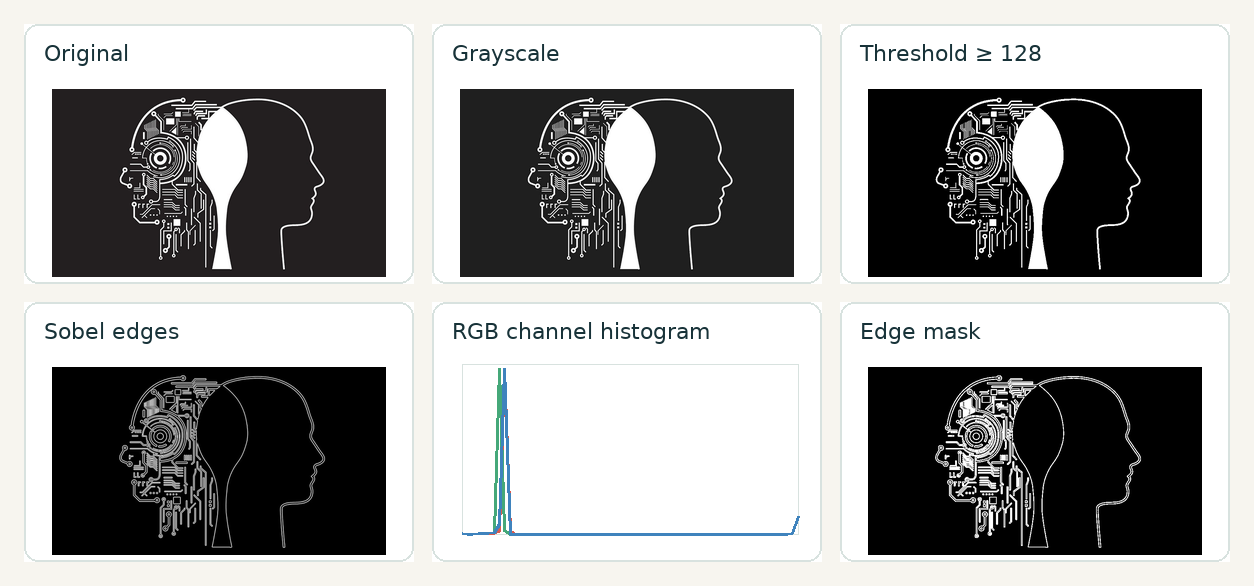
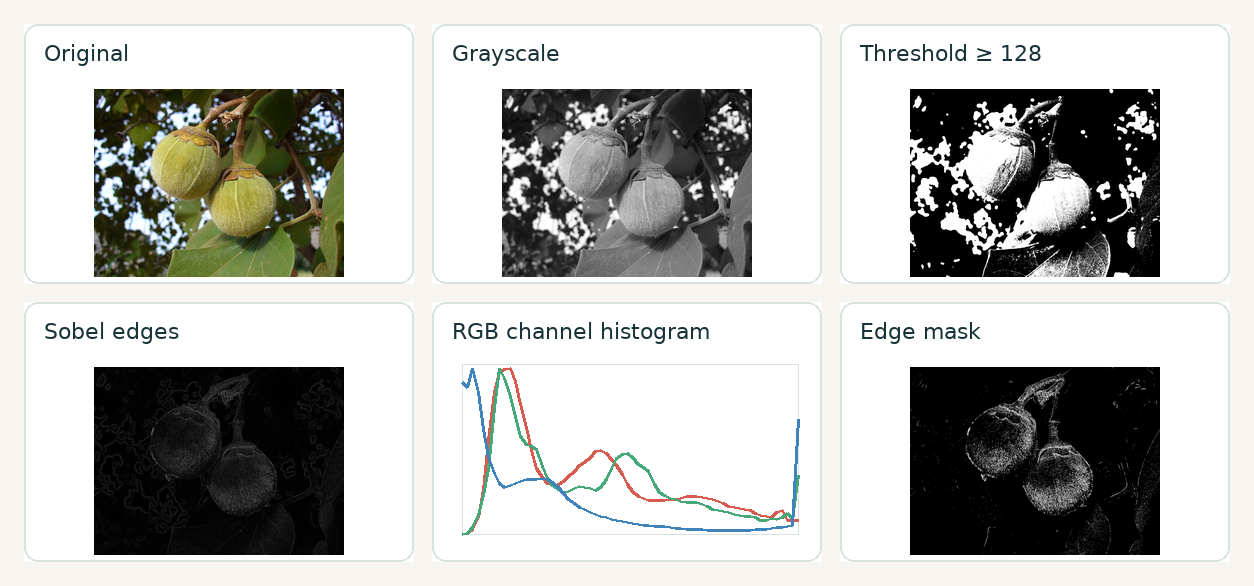
Add filtered inflation graph prediction

diff --git a/experiments/graph_image_predictor.py b/experiments/graph_image_predictor.py
@@ -1,0 +1,217 @@
+"""Extract and extrapolate an inflation curve from a graph image.
+
+This experiment is intentionally explicit about its assumptions. It detects
+the orange line in the checked-in KNN plot, smooths the pixel trace, converts
+pixels back to the plot's y-axis range, and fits a small linear extrapolation
+over the last few points. It demonstrates image-based graph digitization; it
+is not a replacement for forecasting from the original numeric dataset.
+"""
+
+from __future__ import annotations
+
+import argparse
+from pathlib import Path
+from typing import Any
+
+import numpy as np
+from PIL import Image, ImageDraw
+
+from .computer_vision import _fit, _font, _panel
+
+
+# Calibration for static/images/knnPlot1.png. The values correspond to the
+# visible plot rectangle and its y-axis labels (0.25 through 0.60).
+DEFAULT_CALIBRATION = {
+    "x_start": 66,
+    "x_end": 369,
+    "y_top": 16,
+    "y_bottom": 224,
+    "y_min": 0.25,
+    "y_max": 0.60,
+    "sample_count": 22,
+}
+
+
+def color_mask(image: Image.Image, target: tuple[int, int, int], tolerance: float) -> np.ndarray:
+    """Return pixels close to an RGB line color as a boolean mask."""
+
+    pixels = np.asarray(image.convert("RGB"), dtype=np.float32)
+    distance = np.linalg.norm(pixels - np.asarray(target, dtype=np.float32), axis=2)
+    return distance <= tolerance
+
+
+def extract_trace(
+    image: Image.Image,
+    target: tuple[int, int, int] = (255, 127, 14),
+    tolerance: float = 70,
+    calibration: dict[str, float | int] | None = None,
+) -> tuple[np.ndarray, np.ndarray, np.ndarray]:
+    """Extract per-column y pixels, resampled values, and the filtered mask."""
+
+    settings = {**DEFAULT_CALIBRATION, **(calibration or {})}
+    mask = color_mask(image, target, tolerance)
+    x_start, x_end = int(settings["x_start"]), int(settings["x_end"])
+    y_top, y_bottom = int(settings["y_top"]), int(settings["y_bottom"])
+    region = mask[y_top : y_bottom + 1, x_start : x_end + 1]
+    column_y = np.full(region.shape[1], np.nan, dtype=np.float32)
+    for column in range(region.shape[1]):
+        rows = np.where(region[:, column])[0]
+        if rows.size:
+            column_y[column] = float(np.median(rows) + y_top)
+
+    valid = np.isfinite(column_y)
+    if valid.sum() < 10:
+        raise ValueError("Could not find enough pixels for the selected graph line")
+
+    pixel_x = np.arange(x_start, x_end + 1, dtype=np.float32)
+    filtered_y = np.interp(pixel_x, pixel_x[valid], column_y[valid])
+    sample_x = np.linspace(x_start, x_end, int(settings["sample_count"]))
+    sample_y = np.interp(sample_x, pixel_x, filtered_y)
+    return sample_x, sample_y, mask
+
+
+def smooth_trace(values: np.ndarray, window: int = 3) -> np.ndarray:
+    """Reduce anti-aliasing noise with a median and moving-average filter."""
+
+    if window < 1 or window % 2 == 0:
+        raise ValueError("window must be a positive odd number")
+    if window == 1:
+        return values.astype(np.float32)
+    radius = window // 2
+    padded = np.pad(values, radius, mode="edge")
+    median = np.array([np.median(padded[index : index + window]) for index in range(len(values))])
+    averaged = np.convolve(np.pad(median, radius, mode="edge"), np.ones(window) / window, mode="valid")
+    return averaged.astype(np.float32)
+
+
+def pixels_to_values(pixel_y: np.ndarray, calibration: dict[str, float | int] | None = None) -> np.ndarray:
+    """Map image-space y coordinates to the graph's calibrated y values."""
+
+    settings = {**DEFAULT_CALIBRATION, **(calibration or {})}
+    y_top, y_bottom = float(settings["y_top"]), float(settings["y_bottom"])
+    y_min, y_max = float(settings["y_min"]), float(settings["y_max"])
+    return y_max - (pixel_y - y_top) / (y_bottom - y_top) * (y_max - y_min)
+
+
+def predict_next(values: np.ndarray, last_points: int = 5) -> float:
+    """Fit a linear trend to the final values and extrapolate one sample."""
+
+    if last_points < 2 or last_points > len(values):
+        raise ValueError("last_points must be between 2 and the number of samples")
+    tail = values[-last_points:]
+    slope, intercept = np.polyfit(np.arange(last_points, dtype=np.float32), tail, 1)
+    return float(np.polyval((slope, intercept), last_points))
+
+
+def _series_chart(values: np.ndarray, smoothed: np.ndarray, forecast: float, y_min: float, y_max: float) -> Image.Image:
+    size = (560, 340)
+    chart = Image.new("RGB", size, "#102f3b")
+    draw = ImageDraw.Draw(chart)
+    left, top, right, bottom = 58, 28, 530, 290
+    draw.rectangle((left, top, right, bottom), outline="#8eafb0", width=1)
+    for fraction in (0, 0.25, 0.5, 0.75, 1):
+        y = bottom - fraction * (bottom - top)
+        draw.line((left, y, right, y), fill="#31535d", width=1)
+        label = y_min + fraction * (y_max - y_min)
+        draw.text((8, y - 8), f"{label:.2f}", fill="#d8e6e1", font=_font(14))
+
+    def point(index: float, value: float) -> tuple[float, float]:
+        x = left + index / len(values) * (right - left)
+        y = bottom - (value - y_min) / (y_max - y_min) * (bottom - top)
+        return x, y
+
+    actual_points = [point(index, float(value)) for index, value in enumerate(values)]
+    smooth_points = [point(index, float(value)) for index, value in enumerate(smoothed)]
+    draw.line(actual_points, fill="#ff8a5c", width=3)
+    draw.line(smooth_points, fill="#68d0bf", width=3)
+    forecast_x, forecast_y = point(len(values), forecast)
+    draw.line((actual_points[-1][0], actual_points[-1][1], forecast_x, forecast_y), fill="#f4d35e", width=2)
+    draw.ellipse((forecast_x - 6, forecast_y - 6, forecast_x + 6, forecast_y + 6), fill="#f4d35e")
+    draw.text((left, 306), "orange: extracted  ·  teal: filtered  ·  yellow: next", fill="#d8e6e1", font=_font(14))
+    return chart
+
+
+def _summary_panel(forecast: float, last_points: int, sample_count: int) -> Image.Image:
+    size = (560, 340)
+    panel = Image.new("RGB", size, "#176b87")
+    draw = ImageDraw.Draw(panel)
+    draw.text((28, 28), "Image-based estimate", fill="#a8d7d9", font=_font(18))
+    draw.text((28, 75), f"{forecast:.4f}", fill="#ffffff", font=_font(66))
+    draw.text((30, 150), "next plotted value", fill="#d8e6e1", font=_font(18))
+    lines = [
+        f"Samples digitized: {sample_count}",
+        f"Trend window: {last_points} points",
+        "Filter: orange RGB segmentation + smoothing",
+        "Forecast: linear one-step extrapolation",
+    ]
+    for index, line in enumerate(lines):
+        draw.text((30, 205 + index * 25), line, fill="#d8e6e1", font=_font(15))
+    return panel
+
+
+def create_report(
+    input_path: Path,
+    output_path: Path,
+    last_points: int = 5,
+    tolerance: float = 70,
+    calibration: dict[str, float | int] | None = None,
+) -> dict[str, Any]:
+    """Create a graph-filtering report and return the extracted forecast."""
+
+    settings = {**DEFAULT_CALIBRATION, **(calibration or {})}
+    with Image.open(input_path) as source:
+        image = source.convert("RGB")
+
+    sample_x, pixel_y, mask = extract_trace(image, tolerance=tolerance, calibration=settings)
+    values = pixels_to_values(pixel_y, settings)
+    smoothed = smooth_trace(values)
+    forecast = predict_next(smoothed, last_points)
+    y_min, y_max = float(settings["y_min"]), float(settings["y_max"])
+
+    mask_image = Image.fromarray((mask * 255).astype(np.uint8), mode="L")
+    panels = [
+        _panel("Original inflation graph", image, (560, 340)),
+        _panel("Orange-line filter", mask_image, (560, 340)),
+        _panel(
+            "Filtered trace + forecast",
+            _series_chart(values, smoothed, forecast, y_min, y_max),
+            (560, 340),
+        ),
+        _summary_panel(forecast, last_points, len(values)),
+    ]
+    margin, gap = 24, 18
+    canvas = Image.new("RGB", (margin * 2 + 560 * 2 + gap, margin * 2 + 340 * 2 + gap), "#f7f5ef")
+    for index, panel in enumerate(panels):
+        x = margin + (index % 2) * (560 + gap)
+        y = margin + (index // 2) * (340 + gap)
+        canvas.paste(panel, (x, y))
+
+    output_path.parent.mkdir(parents=True, exist_ok=True)
+    canvas.save(output_path, optimize=True)
+    return {
+        "input": str(input_path),
+        "output": str(output_path),
+        "samples": len(values),
+        "last_points": last_points,
+        "forecast": round(forecast, 4),
+        "min_observed": round(float(values.min()), 4),
+        "max_observed": round(float(values.max()), 4),
+    }
+
+
+def main() -> None:
+    parser = argparse.ArgumentParser(description="Filter an inflation graph image and extrapolate its next plotted value.")
+    parser.add_argument("--input", type=Path, required=True, help="Graph image to digitize")
+    parser.add_argument("--output", type=Path, required=True, help="Generated analysis report PNG")
+    parser.add_argument("--last-points", type=int, default=5, help="Number of final samples used for extrapolation")
+    parser.add_argument("--tolerance", type=float, default=70, help="RGB distance tolerance for the orange line")
+    args = parser.parse_args()
+
+    summary = create_report(args.input, args.output, args.last_points, args.tolerance)
+    print("Inflation graph image prediction report created")
+    for key, value in summary.items():
+        print(f"{key}: {value}")
+
+
+if __name__ == "__main__":
+    main()

diff --git a/README.md b/README.md
@@ -1,8 +1,4 @@
-<p align="center">
-  <img src="static/images/ml.png" alt="Machine learning concept artwork" width="760">
-</p>
-
-<h1 align="center">Inflation Lab</h1>
+<h1 align="center">Inflation Prediction Project</h1>
 
 <p align="center">
   A small, visual machine-learning laboratory: a Flask prediction app, saved regression experiments, image-processing utilities, and an optional temporal CNN.
@@ -24,11 +20,12 @@ Inflation Lab started as a 2017 classroom project around inflation-rate regressi
 | **Web app** | Collects ten economic indicators and runs the preserved K-nearest-neighbors estimator. |
 | **Model evaluation** | Shows the saved predicted-vs-actual series and mean squared error. |
 | **Computer vision** | Generates grayscale, threshold, Sobel-edge, histogram, and edge-mask views from an image. |
+| **Graph-image prediction** | Filters the inflation graph, digitizes the orange curve, and extrapolates its next plotted value. |
 | **Temporal CNN** | Trains an optional 1D convolutional network over chronological economic windows. |
 
 ## Visual tour
 
-The repository includes the original model plots plus a reproducible computer-vision inspection sheet generated from the checked-in AI illustration.
+The repository includes the original model plots plus a reproducible computer-vision inspection sheet generated from a real public-domain photograph.
 
 <p align="center">
   <img src="docs/images/computer-vision-report.png" alt="Computer vision report with original, grayscale, threshold, Sobel, histogram, and edge-mask panels" width="820">
@@ -42,6 +39,12 @@ The repository includes the original model plots plus a reproducible computer-vi
 </p>
 
 <p align="center"><em>Historical KNN comparison and cross-validation artifacts.</em></p>
+
+<p align="center">
+  <img src="docs/images/inflation-graph-filter-prediction.png" alt="Inflation graph filtered and used to estimate the next plotted value" width="820">
+</p>
+
+<p align="center"><em>Graph-image experiment: filter the orange inflation curve, smooth its pixels, and estimate the next plotted value.</em></p>
 
 ## Quick start
 
@@ -79,7 +82,7 @@ Run it from the project root:
 
 ```bash
 python -m experiments.computer_vision \
-  --input static/images/614716.jpg \
+  --input static/images/cv-fruit-public-domain.jpg \
   --output docs/images/computer-vision-report.png
 ```
 
@@ -87,7 +90,7 @@ Try a different segmentation threshold:
 
 ```bash
 python -m experiments.computer_vision \
-  --input static/images/614716.jpg \
+  --input static/images/cv-fruit-public-domain.jpg \
   --output /tmp/vision-threshold-180.png \
   --threshold 180
 ```
@@ -118,6 +121,22 @@ The original `pro.csv` is not included in this checkout, so the CNN command need
 
 More detail is available in [`experiments/README.md`](experiments/README.md).
 
+### Filter the inflation graph and predict
+
+[`experiments/graph_image_predictor.py`](experiments/graph_image_predictor.py) uses the original KNN graph image as input. It applies an RGB color filter to isolate the orange inflation curve, interpolates missing pixels, smooths the extracted trace, maps pixels to the chart’s y-axis, and fits a one-step linear extrapolation over the last five plotted samples:
+
+```bash
+python -m experiments.graph_image_predictor \
+  --input static/images/knnPlot1.png \
+  --output docs/images/inflation-graph-filter-prediction.png
+```
+
+The checked-in report estimates the next plotted value as approximately `0.3141` for the default five-point window. This is a transparent graph-digitization demonstration: the result depends on the image’s axis calibration, line color, resolution, and crop. For reliable forecasting, use the original numeric time series instead of a screenshot.
+
+### Image source
+
+The source photograph is [`cv-fruit-public-domain.jpg`](static/images/cv-fruit-public-domain.jpg), downloaded from [Fruit3.jpg on Wikimedia Commons](https://commons.wikimedia.org/wiki/File:Fruit3.jpg). It was photographed by Neelix and released to the public domain. See [`docs/image-sources.md`](docs/image-sources.md) for the source record.
+
 ## Application structure
 
 ```text
@@ -127,6 +146,7 @@ inflation_app/
   model_service.py              Legacy-model compatibility and prediction
 experiments/
   computer_vision.py            Pillow/NumPy image-processing experiment
+  graph_image_predictor.py      Filtered graph digitization and extrapolation
   time_series_cnn.py            Optional TensorFlow temporal CNN
 templates/                      Shared responsive UI
 static/css/app.css              Application styles
@@ -178,7 +198,7 @@ The original training scripts refer to a machine-specific Windows path and remov
 ```bash
 python -m compileall -q app.py _init_.py inflation_app experiments
 python -m experiments.computer_vision \
-  --input static/images/614716.jpg \
+  --input static/images/cv-fruit-public-domain.jpg \
   --output /tmp/computer-vision-report.png
 python - <<'PY'
 from app import app

diff --git a/experiments/README.md b/experiments/README.md
@@ -17,7 +17,7 @@ Run it from the project root:
 
 ```bash
 python -m experiments.computer_vision \
-  --input static/images/CHESS2.PNG \
+  --input static/images/cv-fruit-public-domain.jpg \
   --output docs/images/computer-vision-report.png
 ```
 
@@ -25,12 +25,24 @@ Try another threshold to see how segmentation changes:
 
 ```bash
 python -m experiments.computer_vision \
-  --input static/images/CHESS2.PNG \
-  --output /tmp/chess2-threshold-180.png \
+  --input static/images/cv-fruit-public-domain.jpg \
+  --output /tmp/fruit-threshold-180.png \
   --threshold 180
 ```
 
 The implementation uses Pillow and NumPy only. It is intended for learning and visual inspection, not as a replacement for a production image-processing pipeline.
+
+## Filter the inflation graph and predict
+
+The original KNN comparison image, `static/images/knnPlot1.png`, contains an orange inflation trace. `graph_image_predictor.py` applies a color-distance filter to isolate that line, interpolates gaps caused by anti-aliasing, smooths the pixel trace, converts it through the chart calibration, and extrapolates one next value from the final five samples.
+
+```bash
+python -m experiments.graph_image_predictor \
+  --input static/images/knnPlot1.png \
+  --output docs/images/inflation-graph-filter-prediction.png
+```
+
+The output report shows the original graph, filtered line mask, extracted/filtered trace, and forecast summary. The default run produces an estimate of approximately `0.3141` for this static image. Because the input is a screenshot, the result is sensitive to axis bounds, line color, resolution, and crop; treat it as a graph-digitization experiment, not a production forecast.
 
 ## 1D CNN over time-series data
 

diff --git a/docs/image-sources.md b/docs/image-sources.md
@@ -1,0 +1,9 @@
+# Image sources
+
+The computer-vision example uses a real photograph rather than a placeholder graphic.
+
+| Local file | Source | Creator | License |
+| --- | --- | --- | --- |
+| `static/images/cv-fruit-public-domain.jpg` | [Fruit3.jpg — Wikimedia Commons](https://commons.wikimedia.org/wiki/File:Fruit3.jpg) | Neelix | Public domain |
+
+The generated report in `docs/images/computer-vision-report.png` is a derivative analysis sheet created by this repository’s Pillow/NumPy experiment. The source page identifies the original dimensions, author, and public-domain dedication.
